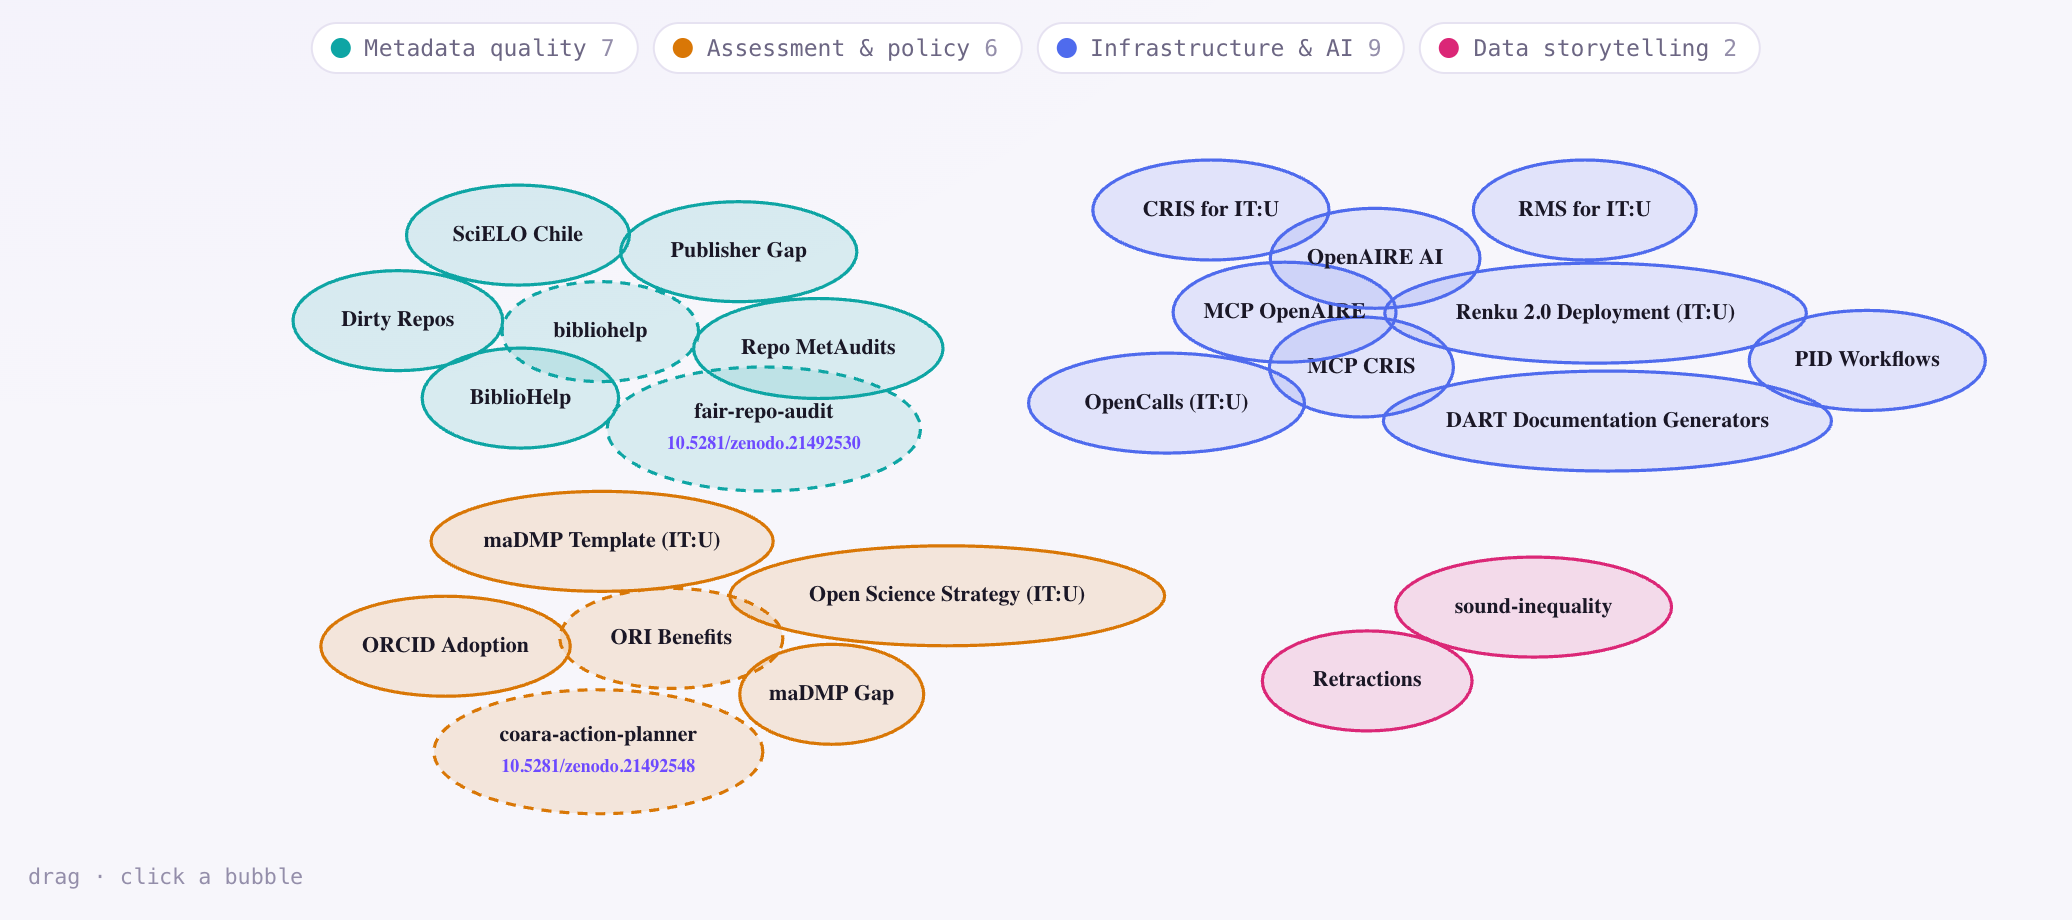
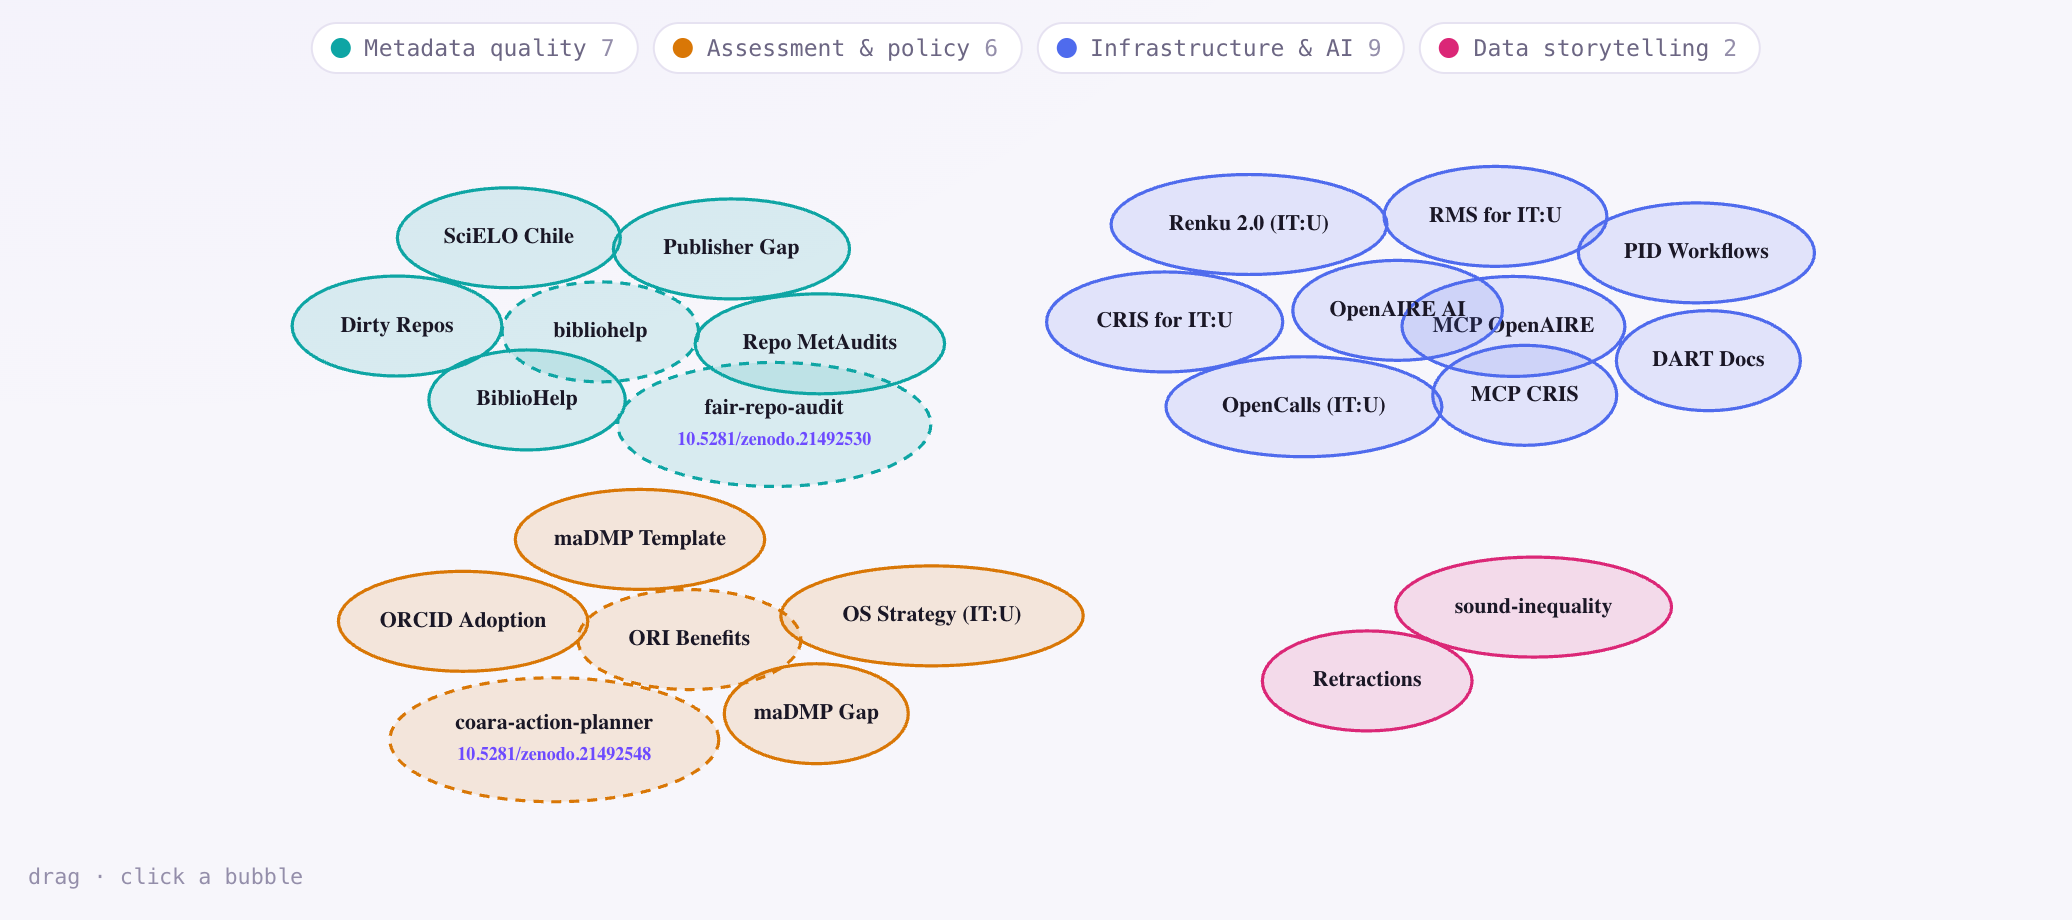
Make the cloud legible on a phone: shorter labels, taller canvas
The 24 ovals were readable on a desktop and a pile of overlapping text on
a 430px screen, where the widest oval took 42% of the canvas. Two changes,
measured on a seeded layout rather than judged by eye.

The four longest IT:U titles now have curated short labels, which is what
the SHORT table exists for: DART Docs, Renku 2.0 (IT:U), OS Strategy
(IT:U), maDMP Template. Hover and the detail panel still carry the full
title, so nothing is hidden, and the widest oval falls from 200px to
164px. That width, not the number of tools, is what decides how much a
cluster can hold: the deepest overlap between unrelated ovals drops from
8px to 6px on desktop and from 89px to 30px at 430px.

The mobile canvas then goes from 440px to 600px tall, which takes the
remaining overlap to 27px and the overlapping pairs from 32 to 17. Every
label is legible again at phone width.

Screenshot regenerated.

Claude-Session: https://claude.ai/code/session_01Xzw8Ng79UiFezdyCddFq6C

diff --git a/index.html b/index.html
@@ -97,7 +97,7 @@
   /* cloud */
   .stage{position:relative;border-radius:16px;overflow-x:clip;overflow-clip-margin:24px}
   #cloud{display:block;width:100%;height:460px;touch-action:none;cursor:grab}
-  @media (max-width:560px){#cloud{height:440px}}
+  @media (max-width:560px){#cloud{height:600px}}
   #cloud.grabbing{cursor:grabbing}
   .hint{position:absolute;left:14px;bottom:12px;font-family:var(--mono);font-size:.68rem;color:var(--faint);pointer-events:none}
   .tip{position:absolute;pointer-events:none;background:var(--ink);color:var(--paper);font-family:var(--mono);
@@ -311,7 +311,9 @@ const SHORT=[[/BiblioHelp/,"BiblioHelp"],[/Scielo/i,"SciELO Chile"],[/Repo MetAu
   [/Dirty Repos/,"Dirty Repos"],[/Publisher Gap/,"Publisher Gap"],[/Retracted/,"Retractions"],
   [/maDMP Gap/,"maDMP Gap"],[/ORCID Adoption/,"ORCID Adoption"],[/MCP CRIS Live — OpenAIRE/,"MCP OpenAIRE"],
   [/MCP CRIS Live/,"MCP CRIS"],[/OpenAIRE Research/,"OpenAIRE AI"],[/sound-inequality/,"sound-inequality"],
-  [/PID Traceability/,"PID Workflows"],[/Value of Open Research Information/,"ORI Benefits"]];
+  [/PID Traceability/,"PID Workflows"],[/Value of Open Research Information/,"ORI Benefits"],
+  [/DART Documentation Generators/,"DART Docs"],[/Renku 2\.0 Deployment/,"Renku 2.0 (IT:U)"],
+  [/Open Science Strategy/,"OS Strategy (IT:U)"],[/maDMP Template/,"maDMP Template"]];
 function shortOf(t){for(const[re,s]of SHORT)if(re.test(t))return s;return t.split("—")[0].trim();}
 
 /* ---------- cloud physics ---------- */

diff --git a/CHANGELOG.md b/CHANGELOG.md
@@ -22,6 +22,20 @@ ships in numbered drops.
   The oval carries the curated short label `ORI Benefits`, since the full title would draw
   an oval half a cluster wide.
 
+### Changed
+
+- The four longest IT:U titles get curated short labels in the cloud, the mechanism the
+  table already existed for: `DART Docs`, `Renku 2.0 (IT:U)`, `OS Strategy (IT:U)` and
+  `maDMP Template`. The full title still shows on hover and in the panel. The widest oval
+  drops from 200px to 164px, which is what actually governs how many ovals a cluster can
+  hold. On a seeded desktop layout the deepest overlap between two unrelated ovals falls
+  from 8px to 6px.
+- The cloud is 600px tall below 560px wide, up from 440px. Narrow screens were the case
+  the shorter labels alone could not fix: 24 ovals in a 386px-wide canvas overlapped by up
+  to 89px and stacked their labels into an unreadable pile. Shorter labels took that to
+  30px and the taller canvas to 27px, with the overlapping pairs down from 32 to 17 and
+  every label legible again.
+
 ### Removed
 
 - The `criolab` card. The project is retired and its repository deleted, so a card linking
